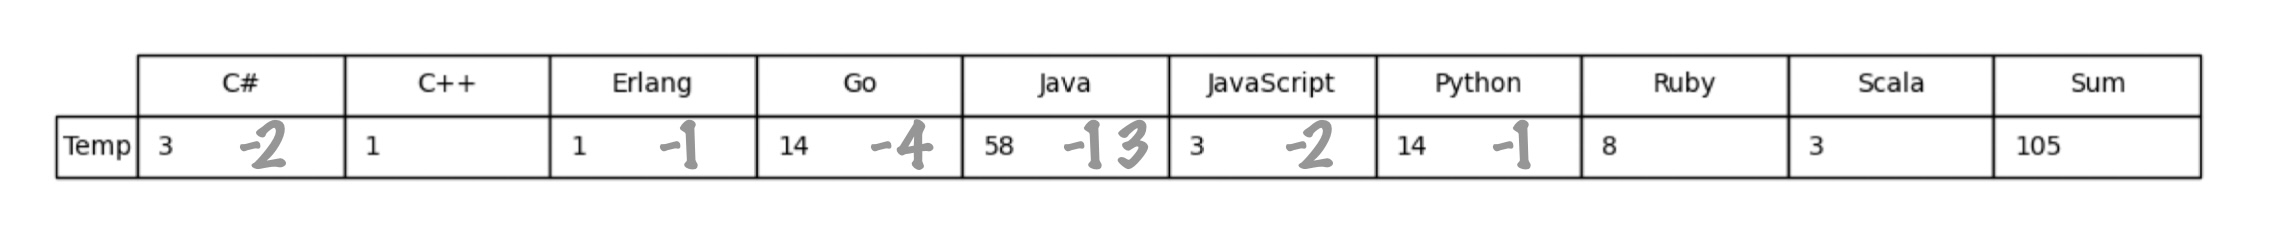
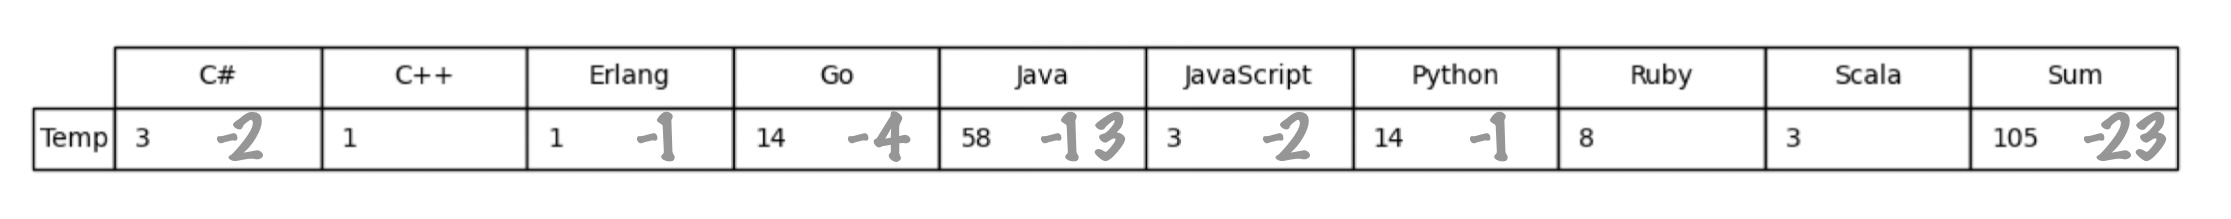
readme

Changed region(s): [[0.0, 0.1918, 0.9897, 0.7945]]

diff --git a/README.md b/README.md
@@ -13,7 +13,7 @@ This section include following document:
 
 ![Table_1_temp](https://github.com/xpxxx/opentelemetry_empirical/blob/main/RQ1/Table_1_temp.png)
 
-**BUT** repositories maintained by OpenTracing are not sorted by their  properties and we concentrated on those repositories instrumented. So we have double checked manually to delete some repositories not related to instrumentation as shown as [Table_1](https://github.com/xpxxx/opentelemetry_empirical/blob/main/RQ1/Table_1_manually.jpg).
+**BUT** repositories maintained by OpenTracing are not sorted by their  properties and we concentrated on those repositories instrumented. So we have double checked manually to delete some repositories not related to instrumentation as shown as [Table_1_manually](https://github.com/xpxxx/opentelemetry_empirical/blob/main/RQ1/Table_1_manually.jpg).
 
 ![Table_1_manually](https://github.com/xpxxx/opentelemetry_empirical/blob/main/RQ1/Table_1_manually.jpg)
 
